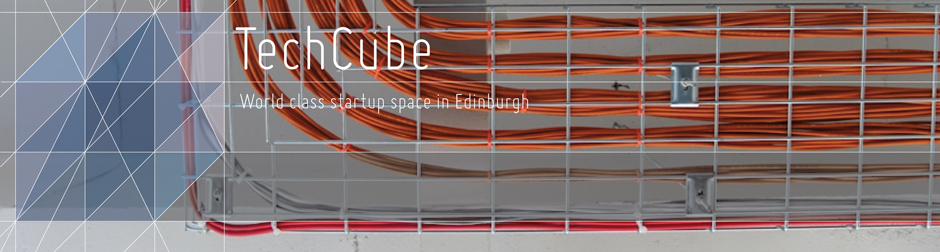
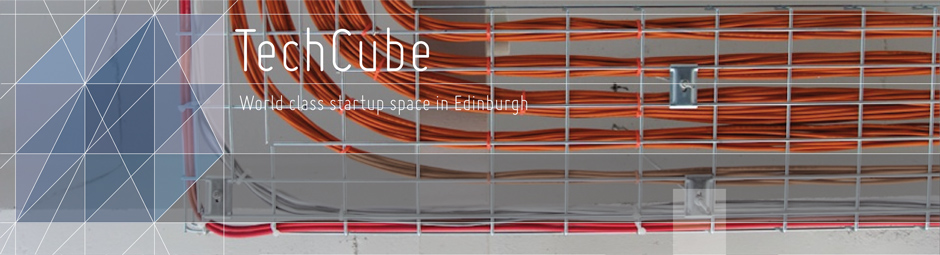
changed nav and fonts

diff --git a/app/assets/stylesheets/application.css b/app/assets/stylesheets/application.css
@@ -47,6 +47,18 @@ position:relative; left:235px; top:125px; color:#fff; width: 715px; height: 100p
 
 ### Navigation stuff ###
 
+#nav-bar{
+  
+  position:relative; left:235px; top:110px; color:#fff; width: 715px; height: 100px; font-size:1.5em;   
+}
+ 
+.nav-item{
+  height:60px; color:#fff; display:inline-block; padding: 10px 10px 0px 10px; font-size:1.6em; font-family:'MisoLight'; font-weight:100;
+}
+
+.nav-item-active{
+  background-color:rgba(19,159,219,0.3);
+}
 
 
 .tumblr_posts {
